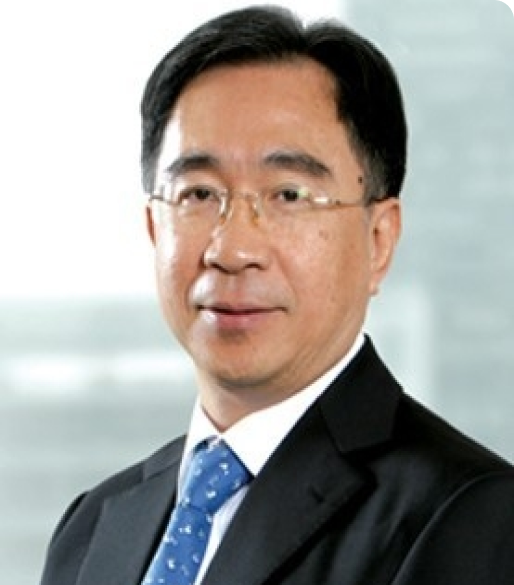
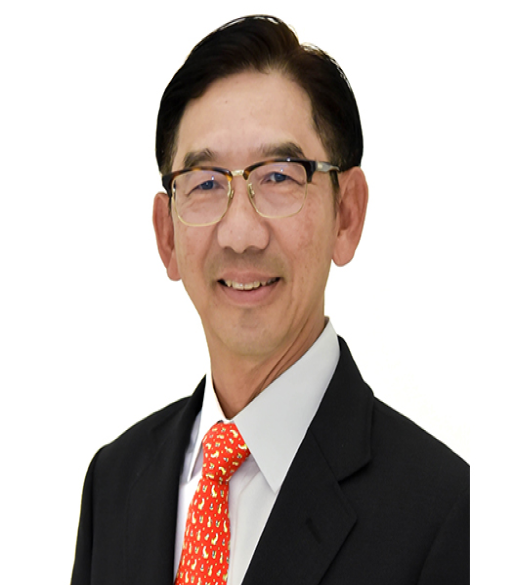
Update lecturer name and photo

diff --git a/application/views/lecturer.php b/application/views/lecturer.php
@@ -18,7 +18,7 @@
         }
     }
 
-    
+
 
     .topic {
         font-size: 40px;
@@ -324,7 +324,7 @@
                             alt="lecturer">
 
                         <div class="card-body" style="overflow-y: auto">
-                            <h4 class="card-text lecturer_name">ศาสตราจารย์กิตติคุณ นพ. สุทธิพร จิตต์มิตรภาพ</h4>
+                            <h4 class="card-text lecturer_name">ศาสตราจารย์กิตติคุณ นพ.สุทธิพร จิตต์มิตรภาพ</h4>
                             <p class="card-text lecturer_position">
                                 ประธานคณะกรรมการส่งเสริมวิทยาศาสตร์ วิจัยและนวัตกรรม <br>นายกสภามหาวิทยาลัยกาฬสินธุ์
                             </p>
@@ -394,10 +394,9 @@
                             alt="lecturer">
 
                         <div class="card-body" style="overflow-y: auto">
-                            <h4 class="card-text lecturer_name">ดร. สถิตย์ ลิ่มพงศ์พันธุ์</h4>
+                            <h4 class="card-text lecturer_name">ศาสตราจารย์ ดร.สมคิด เลิศไพฑูรย์</h4>
                             <p class="card-text lecturer_position">
-                                สมาชิกวุฒิสภา, <br>อดีตปลัดกระทรวงการคลัง,
-                                <br>อดีตประธานกรรมการตลาดหลักทรัพย์แห่งประเทศไทย
+                                ประธานกรรมการ บริษัท สกาย ไอซีที จำกัด (มหาชน)
                             </p>
                         </div>
                     </div>
@@ -465,10 +464,9 @@
                             alt="lecturer">
 
                         <div class="card-body" style="overflow-y: auto">
-                            <h4 class="card-text lecturer_name">นพ.อำพล จินดาวัฒนะ</h4>
+                            <h4 class="card-text lecturer_name">พล.ร.อ.ศักดิ์สิทธิ์  เชิดบุญเมือง</h4>
                             <p class="card-text lecturer_position">
-                                สมาชิกวุฒิสภา <br>ผู้ทรงคุณวุฒิด้านสุขภาพและสังคมนักการ<br>
-                                สาธารณสุขดีเด่น ประเภทบริหาร <br>รางวัลชัยนาทนเรนทร พ.ศ.๒๕๕๙
+                                สมาชิกวุฒิสภา
                             </p>
                         </div>
                     </div>
@@ -608,7 +606,7 @@
                         <div class="card-body" style="overflow-y: auto">
                             <h4 class="card-text lecturer_name">อ.ลัดดาวัลย์ ชูช่วย</h4>
                             <p class="card-text lecturer_position">
-                            กรรมการอำนวยการหลักสูตร ฯ,<br> แชมป์สุดยอดอัจฉริยะนักจำระดับประเทศ 2 สมัย
+                                กรรมการอำนวยการหลักสูตร ฯ,<br> แชมป์สุดยอดอัจฉริยะนักจำระดับประเทศ 2 สมัย
                             </p>
                         </div>
                     </div>
